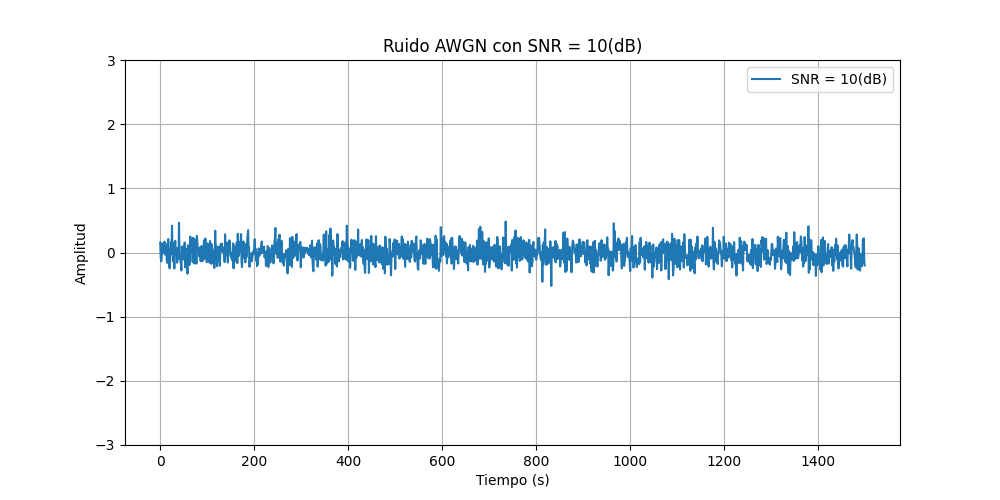
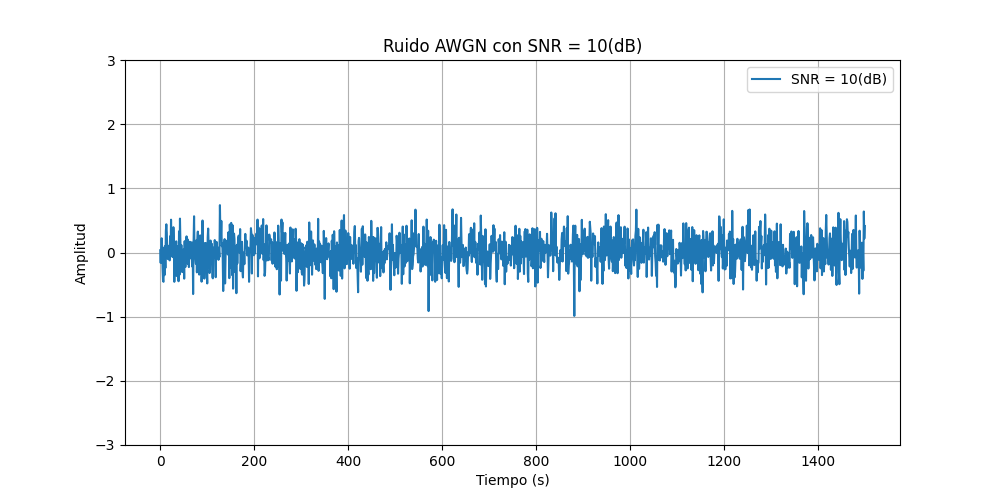
ultimos cambios

Changed region(s): [[0.155, 0.42, 0.868, 0.6]]

diff --git a/main.py b/main.py
@@ -23,16 +23,15 @@ from numpy.random import rand, randn
 ########################################################################################################
 #Datos Iniciales
 largoSenal = 10
-bps = 10
+bps = 5
 freqPortadora = 3*bps
-freqMuestreoPortadora = 5*freqPortadora
+freqMuestreoPortadora = 10*freqPortadora
 snrDb = 1
 
 ########################################################################################################
 #Prueba para un caso pequeño
 #         Generar Señal
-senalDigital = [0,0,0,1,0,0,1,0,0,1]
-#senalDigital = senal.generarSenal(10000)
+senalDigital = [1,0,0,1,0,0,1,1,0,0]
 tiempo = np.linspace(0,len(senalDigital)/bps,len(senalDigital))
 graf.graficarSenalDigital(senalDigital, tiempo, "Señal Digital en el Tiempo", "Tiempo (s)", "Amplitud", "BPS = 5")
 
@@ -41,19 +40,30 @@ modulada, tiempoModulada = mod.modularASK(senalDigital, bps, freqPortadora, freq
 graf.graficar(modulada, tiempoModulada, "Señal Modulada en ASK", "Tiempo (s)", "Amplitud", "Modulada")
 
 #          Agregar Ruido
-moduladaRuido = sim.simuladorRuido(modulada, tiempoModulada, 7, False)     #SNR = 7
-moduladaRuido = sim.simuladorRuido(modulada, tiempoModulada, snrDb, False) #SNR = 1
+moduladaRuido = sim.simuladorRuido(modulada, tiempoModulada, 10, True)
+moduladaRuido = sim.simuladorRuido(modulada, tiempoModulada, snrDb, True) #SNR = 1
 graf.graficar(moduladaRuido, tiempoModulada, "Señal Modulada con Ruido AWGN", "Tiempo (s)", "Amplitud", "ASK con SNR = 1")
+
+#          Generar grafico de señal Rectificada
+portadora = 3*np.cos(2*np.pi*freqPortadora*tiempoModulada)
+rectificada = portadora * moduladaRuido
+graf.graficar(rectificada, tiempoModulada, "Señal ASK Rectificada", "Tiempo (s)", "Amplitud", "Señal ASK*portadora")
+
+#          Generar grafico de señal Filtrada (Filtro pasa Bajos)
+order = 4
+fs = 90.0       # sample rate, Hz
+cutoff = 1.3
+filtrada = mod.butter_lowpass_filter(rectificada, cutoff, fs, order)
+graf.graficar(filtrada, tiempoModulada, "Señal Filtrada", "Tiempo (s)", "Amplitud", "filtrada")
 
 #          Demodular la Señal
 demodulada = mod.demodularASK(moduladaRuido, tiempoModulada, bps, freqPortadora, freqMuestreoPortadora)
+graf.graficarSenalDigital(demodulada, tiempo, "Señal Demodulada", "Tiempo (s)", "Amplitud", "ASK demodulada")
 
-BER = sim.simulacion(senalDigital, modulada, tiempoModulada, [1], freqPortadora, freqMuestreoPortadora, bps)
-print("MI BER: "+str(BER))    
-
+graf.mostrarGraficos()
 ########################################################################################################
 #Simulacion Caso grande
-largoSenal = 10000
+largoSenal = 100000
 arraySNRinDb = range(-1,17)
 arrayBPS = [5,10,15]
 resultadoSimulacion = [None]*len(arrayBPS)

diff --git a/modulacion.py b/modulacion.py
@@ -20,7 +20,7 @@ def modularASK(senal, bps, freqPortadora, freqMuestreoPortadora, cond):
     #Generar Intervalo de tiempo para la portadora
     tiempoPortadora = np.linspace(0,1/bps,freqMuestreoPortadora)
     #Generar Portadora
-    portadora = np.cos(2*np.pi*freqPortadora*tiempoPortadora)
+    portadora = 3*np.cos(2*np.pi*freqPortadora*tiempoPortadora)
     #Graficar Portadora en el tiempo
     if(cond):
         graf.graficar(portadora, tiempoPortadora, "Señal Portadora en el tiempo", "Tiempo (s)", "Amplitud","f(t) = 3*cos(2pi*f*t)")
@@ -29,11 +29,10 @@ def modularASK(senal, bps, freqPortadora, freqMuestreoPortadora, cond):
     senalModulada = []
     for bit in senal:
         for dato in portadora:
-            senalModulada.append(3*bit*dato)
+            senalModulada.append(bit*dato)
         #modulador = np.concatenate([modulador,(bit*portadora)])   
     tiempoModulada = np.linspace(0,len(senal)/bps,len(senalModulada))
     return np.array(senalModulada),tiempoModulada
-    #Generar intervalo de tiempo para la modulada
 
 # Entradas: senal -> array con los datos de la señal modulada
 #           bps -> Tasa de bits por segundo utilizada
@@ -61,8 +60,8 @@ def demodularASK(modulada, tiempoModulada, bps,freqPortadora, freqMuestreoPortad
     for i in range(0,len(modulada), len(tiempoPortadora)):
         rectificada = portadora*modulada[inicio:fin]
         filtrada = butter_lowpass_filter(rectificada, cutoff, fs, order)
+        #Estapa de desicion
         avg = np.average(filtrada)
-        #avg = np.median(filtrada[inicio:fin])
         if(avg > 2.5):
             demodulada.append(1)
         else:

diff --git a/prueba.py b/prueba.py
@@ -99,7 +99,7 @@ plt.figure()
 plt.plot(tiempoModulada,modulada)
 plt.title("Modulada")
 #          Agregar Ruido
-"""
+
 moduladaRuido1 = sim.simuladorRuido(modulada, tiempoModulada, snrDb1, False)     #SNR = 7
 plt.figure()
 plt.plot(tiempoModulada,moduladaRuido1)
